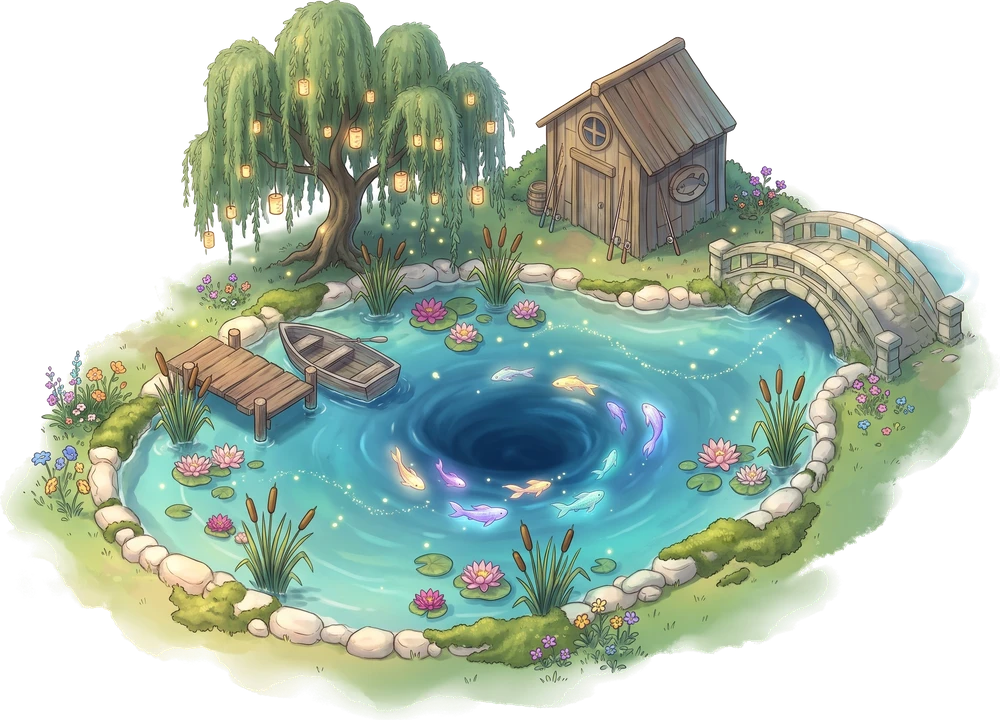
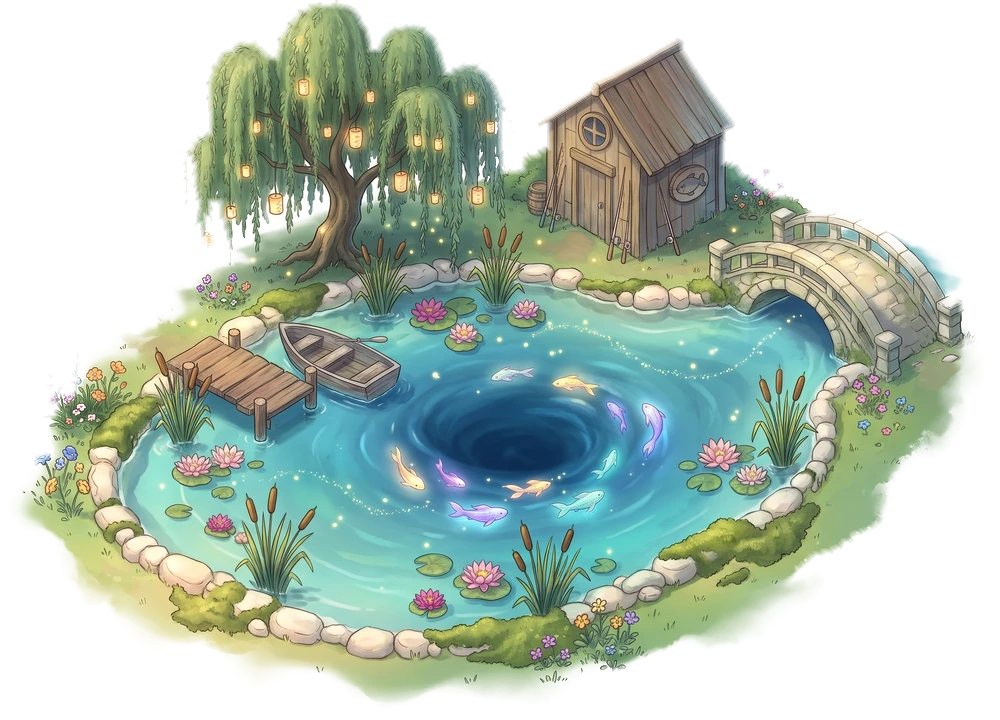
Build 561: the pond where she put it, lit at night, no pale rim (Maria: «Да» to the three fixes after reviewing her editor layout): the flagstone path from the reception's side door is drawn each frame down to the pier of the scene wherever the editor placed it (no fixed strip on the old spot); at n

diff --git a/js/game.js b/js/game.js
@@ -1,17 +1,17 @@
 // Magic school idle tycoon — v0.3: isometric campus with walking creatures.
 import './clock.js?v=470';   // build audit 2026-11-24: trusted clock (server time), must stay the first import
-import './edit_guard.js?v=560';   // room editor (?edit only): in-memory storage, no cloud
+import './edit_guard.js?v=561';   // room editor (?edit only): in-memory storage, no cloud
 import {
   OFFLINE_CAP_SEC, MAX_DESKS, MAX_ITEM_LEVEL, MAX_TEACHER_LEVEL, MAX_TIME_LEVEL,
   CLASSES, SPECIES, NAMES, MISSIONS, WORLDS, WORLD, META,
-} from './data.js?v=560';
-import { EMOJI_RE, emojiImage, preloadEmoji, watchEmoji, emojiHtml } from './emoji.js?v=560';
-import { initMinigame } from './minigame.js?v=560';
-import { initChests } from './chests.js?v=560';
-import { initValley } from './valley.js?v=560';
-import { log as glog, tail as gtail, entries as gentries, lineOf as gline, dump as gdump } from './gamelog.js?v=560';
-import { initLore } from './lore.js?v=560';
-import { initAvatar } from './avatar.js?v=560';
+} from './data.js?v=561';
+import { EMOJI_RE, emojiImage, preloadEmoji, watchEmoji, emojiHtml } from './emoji.js?v=561';
+import { initMinigame } from './minigame.js?v=561';
+import { initChests } from './chests.js?v=561';
+import { initValley } from './valley.js?v=561';
+import { log as glog, tail as gtail, entries as gentries, lineOf as gline, dump as gdump } from './gamelog.js?v=561';
+import { initLore } from './lore.js?v=561';
+import { initAvatar } from './avatar.js?v=561';
 // mini-game «Зельеварка» (match-3, js/minigame.js): a pill on the main screen, its own overlay; the school keeps living under it
 const MG = initMinigame({ state: () => S, earn: (n) => bonus(n), rate: () => rateNow(), save: () => save(), stones: () => stones(), spendStones: (n) => stonesAdd(-n), toast: (t) => toast(t), fmt: (n) => fmt(n), emojiHtml, emojiImage,
   audioOut: () => { if (!sfxOn() || document.hidden) return null; const c = audio(); return c && c.state === 'running' ? { c, out: AOUT } : null; },
@@ -38,7 +38,7 @@ const LORE = initLore({ state: () => S, save: () => save(), emojiHtml, on: () =>
 const SAVE_KEY = WORLD === 1 ? 'magicschool.save.v2' : 'magicschool.save.v2.w' + WORLD;   // every world keeps its own save
 const saveKeyOf = (w) => (w === 1 ? 'magicschool.save.v2' : 'magicschool.save.v2.w' + w);
 const VERSION = '0.9';
-const BUILD = 560;   // keep equal to the ?v= number in index.html
+const BUILD = 561;   // keep equal to the ?v= number in index.html
 const $ = (s, r = document) => r.querySelector(s);
 const rnd = (a) => a[Math.floor(Math.random() * a.length)];
 
@@ -722,7 +722,6 @@ function pondLayout() {
   POND = null; if (WORLD !== 1 || !window.__EDIT || !SLOTS.REC || !SLOTS.DIR) return;   // editor only until her OK (Maria: «В редактор ставь мне»)
   const r = SLOTS.REC, x0 = r.x1, x1 = SLOTS.DIR.x0, y0 = r.y0, y1 = r.y1; if (x1 - x0 < 9) return;
   POND = { x0, x1, y0, y1, cx: (x0 + x1) / 2 + 0.7, cy: (y0 + y1) / 2 + 0.3, rx: (x1 - x0) / 2 - 2.2, ry: (y1 - y0) / 2 - 1.8 };
-  const py = Math.floor(POND.cy); PATHS.push({ x0, y0, x1: x0 + 2, y1: py + 2, paved: 1 });   // from the reception's side door down to the shore by the pier
 }
 const pondBox = () => ({ x0: POND.x0 - 5, y0: POND.y0 - 3, x1: POND.x1 + 3, y1: POND.y1 + 7 });   // where the editor lets her move the pond's things (wider than the plot)
 function pondW() {   // the water where the editor put the scene: the same move / scale / flip as layAdd draws it with
@@ -733,7 +732,7 @@ function pondW() {   // the water where the editor put the scene: the same move 
 const pondD = (x, y, m = 0) => { if (!POND) return 9; const w = pondW(); return Math.pow((x - w.cx) / (w.rx + m), 2) + Math.pow((y - w.cy) / (w.ry + m), 2); };   // < 1 inside the pond grown by m tiles
 function pondRing(m = 0, n = 56) { const o = []; for (let k = 0; k < n; k++) { const an = k / n * Math.PI * 2, w = 1 + 0.05 * Math.sin(an * 3 + 2) + 0.03 * Math.sin(an * 5); o.push(P(POND.cx + Math.cos(an) * (POND.rx + m) * w, POND.cy + Math.sin(an) * (POND.ry + m) * w)); } return o; }
 function openFish() { MG.open(); const b = document.querySelector('#mg [data-mgpick="fish"]'); if (b) b.click(); }   // straight into «Рыбалка»
-const POND_IMG = new Image(); if (WORLD === 1) { POND_IMG.onload = () => { staticKey = ''; }; POND_IMG.src = 'assets/parts/outdoor/pond.webp?v=2'; }   // the painted pond (one picture)
+const POND_IMG = new Image(); if (WORLD === 1) { POND_IMG.onload = () => { staticKey = ''; }; POND_IMG.src = 'assets/parts/outdoor/pond.webp?v=3'; }   // the painted pond (one picture)
 const FISH_IMG = {}; if (WORLD === 1) for (const k of ['bobber', 'f_gold']) { const im = new Image(); im.src = `assets/fish/${k}.webp?v=1`; FISH_IMG[k] = im; }
 function drawPondFx() {   // on the water, before the sorted things: ripples, the bobber of a waiting try, the golden fish
   const now = performance.now(), t = now / 1000, P0 = POND;
@@ -754,6 +753,29 @@ function drawPondFish() {   // the golden fish jumps over everything on the wate
       ctx.save(); ctx.strokeStyle = 'rgba(255,255,255,0.7)'; ctx.lineWidth = 1.4; for (const q of [0, 1]) { const uu = q ? Math.max(0, u - 0.85) / 0.15 : Math.min(1, u / 0.15); if (uu > 0 && uu < 1) { const sx = m.x + (pondFish.fl ? -1 : 1) * (q ? 17 : -17); ctx.globalAlpha = 1 - uu; ctx.beginPath(); ctx.ellipse(sx, m.y, 5 + uu * 12, 2 + uu * 5, 0, 0, Math.PI * 2); ctx.stroke(); } } ctx.restore();
       ctx.save(); ctx.translate(fx, fy); ctx.rotate((pondFish.fl ? 1 : -1) * (0.9 - 1.8 * u)); ctx.scale(pondFish.fl ? -1 : 1, 1); ctx.drawImage(sized(f, h * scale * dpr), -w / 2, -h / 2, w, h); ctx.restore();
       if (u > 0.1 && u < 0.92) pondFishRect = { x0: fx - w / 2 - 12, y0: fy - h / 2 - 12, x1: fx + w / 2 + 12, y1: fy + h / 2 + 12, t: now }; } }
+}
+function pondPt(u, v) {   // a point of the scene picture (u, v = shares of its width / height) in world px, where the editor put the scene
+  const W = pondW(), o = (((RLAY.rooms.POND || {}).items) || {})['pond_scene#1'] || {}, f = o.flip ? -1 : 1, w = 2 * Math.hypot(W.rx, W.ry) * HW / 0.677, h = w * 0.72, m = P(W.cx, W.cy);
+  return { x: m.x + f * (u - 0.489) * w, y: m.y + (v - 0.629) * h, k: w / (2 * Math.hypot(POND.rx, POND.ry) * HW / 0.677) };
+}
+const pondTile = (q) => { const a = (q.x - OX) / HW, b = (q.y - OY) / HH; return { x: (a + b) / 2, y: (b - a) / 2 }; };
+function drawPondPath() {   // flagstones from the reception's side door (its top-right corner) down and along to the pier's land end
+  const pt = isoPat(ctx, 'path', 3); if (!pt) return; const x0 = POND.x0, y0 = POND.y0, e = pondTile(pondPt(0.2, 0.43)), ey = Math.max(y0 + 1, Math.round(e.y)), ex = Math.round(e.x);
+  const R = [[x0, y0, x0 + 2, ey + 1]]; if (ex > x0 + 2) R.push([x0 + 2, ey - 1, ex + 1, ey + 1]); else if (ex < x0) R.push([ex, ey - 1, x0, ey + 1]); R.push([Math.min(ex, x0), ey, Math.max(ex + 1, x0 + 2), ey + 2]);   /* the last step reaches the pier */
+  ctx.save(); ctx.fillStyle = pt; for (const [a, b, c, d] of R) { poly(ctx, [P(a, b), P(c, b), P(c, d), P(a, d)]); ctx.fill(); } ctx.restore();
+}
+const POND_LAMPS = [[0.297, 0.056], [0.304, 0.114], [0.369, 0.131], [0.47, 0.138], [0.256, 0.177], [0.492, 0.176], [0.327, 0.18], [0.354, 0.191], [0.417, 0.194], [0.437, 0.197], [0.245, 0.239], [0.4, 0.247], [0.476, 0.274], [0.434, 0.276], [0.273, 0.278], [0.231, 0.294], [0.322, 0.319], [0.209, 0.329]];   // the willow's paper lanterns (measured on pond.webp)
+const POND_FISH = [[0.51, 0.52, '255,205,110'], [0.575, 0.535, '255,205,110'], [0.625, 0.42, '200,160,255'], [0.655, 0.43, '170,220,255'], [0.405, 0.665, '255,205,110'], [0.445, 0.68, '200,160,255'], [0.525, 0.69, '255,190,120'], [0.47, 0.71, '170,210,255'], [0.585, 0.7, '170,230,255']];
+function drawPondNight() {   // after the night tint: lanterns, the hut's window, the glowing fish, the water and fireflies shine
+  if (!POND || !POND_IMG.naturalWidth) return; const D = dayTint(), tt = D.sun.map((v, i) => (v + D.shade[i]) / 2), L = Math.min(1, Math.max(0, 1 - (tt[0] + tt[1] + tt[2]) / 765) * 2.2); if (L < 0.05) return;
+  const T = performance.now() / 1000, c0 = pondPt(0.489, 0.629), k = c0.k; if (!onScreen(c0.x, c0.y, 400, 400)) return;
+  ctx.save(); ctx.globalCompositeOperation = 'lighter';
+  { const r = 2 * Math.hypot(POND.rx, POND.ry) * HW * 0.5 * k; ctx.globalAlpha = 0.28 * L; ctx.drawImage(glowSprite('90,190,255'), c0.x - r, c0.y - r * 0.45, r * 2, r * 0.9); }   // the water's own light
+  POND_FISH.forEach(([u, v, col], j) => { const q = pondPt(u, v), r = 11 * k; ctx.globalAlpha = L * (0.55 + 0.25 * Math.sin(T * 1.7 + j * 1.3)); ctx.drawImage(glowSprite(col), q.x - r, q.y - r * 0.6, r * 2, r * 1.2); });
+  POND_LAMPS.forEach(([u, v], j) => { const q = pondPt(u, v), f = 0.8 + 0.2 * Math.sin(T * 4.1 + j * 2.3), r = 7 * k; ctx.globalAlpha = 0.9 * L * f; ctx.drawImage(glowSprite('255,190,100'), q.x - r, q.y - r, r * 2, r * 2); ctx.globalAlpha = 0.6 * L * f; ctx.drawImage(glowSprite('255,235,180'), q.x - r * 0.45, q.y - r * 0.45, r * 0.9, r * 0.9); });
+  { const q = pondPt(0.605, 0.185), r = 9 * k; ctx.globalAlpha = 0.85 * L; ctx.drawImage(glowSprite('255,200,110'), q.x - r, q.y - r, r * 2, r * 2); }   // the hut's round window
+  for (let j = 0; j < 12; j++) { const u = 0.3 + 0.45 * ((j * 0.37) % 1) + 0.04 * Math.sin(T * 0.6 + j), v = 0.25 + 0.35 * ((j * 0.61) % 1) + 0.03 * Math.sin(T * 0.8 + j * 2), q = pondPt(u, v), bl = Math.max(0, Math.sin(T * 1.3 + j * 1.9)); if (bl < 0.1) continue; const r = 3.5 * k; ctx.globalAlpha = L * bl; ctx.drawImage(glowSprite('220,255,140'), q.x - r, q.y - r, r * 2, r * 2); }   // fireflies
+  ctx.restore();
 }
 function drawPondPic() {   // the painted scene (SYNTX, art/pond/pond_v2.jpg): its water spans 67.7% of the width, water centre at (48.9%, 62.9%); then the water fx on it
   const im = POND_IMG; if (im.naturalWidth) { const m0 = P(POND.cx, POND.cy), w = 2 * Math.hypot(POND.rx, POND.ry) * HW / 0.677, h = w * im.naturalHeight / im.naturalWidth; ctx.drawImage(sized(im, h * scale * dpr), m0.x - w * 0.489, m0.y - h * 0.629, w, h); }
@@ -5314,6 +5336,7 @@ function render() {
   for (const id of Object.keys(SLOTS)) { const s = SLOTS[id]; if (!slotVisible(s)) continue; list.push({ k1: (s.x0 + s.x1 + s.y0 + s.y1) / 2, k2: -1e9, draw: cachedRoom(id) ? () => drawThemedRoom(id) : () => drawSlot(ctx, id) }); }
   list.push({ k1: Math.floor(GATE_TILE.x) + 1 + GATE_TILE.y - 1, k2: 0, draw: () => drawGate(ctx) });
   if (WORLD === 1 && POND) { const q = POND, la = layAdd('POND', pondBox(), add);   // the fishing pond: the editor's room «🎣 Пруд», every piece movable
+    list.push({ k1: -1e9, k2: 0, draw: drawPondPath });   // the path lies on the ground under everything
     la(q.cx, q.cy, drawPondPic, -(q.rx * 0.5 + q.ry * 0.7), 'pond_scene');
     for (const [n, dx, dy, sc] of [['bench_b', -1.6, q.ry + 1.3, 1.05], ['lantern_gold', q.x0 + 2.4 - q.cx, q.y0 + 1.6 - q.cy, 0.8], ['lantern_gold', -q.rx - 0.2, Math.floor(q.cy) + 2.4 - q.cy, 0.8]]) la(q.cx + dx, q.cy + dy, () => drawOut({ n, x: q.cx + dx, y: q.cy + dy, s: sc }), 0, n);
     layExtra('POND', pondBox(), add); }
@@ -5488,6 +5511,7 @@ function render() {
   drawDewFx();   // secret «Роса» (lore stage 4): dawn dew in the graduates' garden
   drawPukh();   // secret «Совёнок Пух»: the owlet flies over now and then
   drawStarfall();   /* secret «Звездопад» */
+  if (WORLD === 1 && POND) drawPondNight();   // the pond's lanterns and fish at night (build 561)
   drawMoonFx();   // the Moon Tree glow and fruits stay bright at night   // day and night (signs stay bright: drawn after)
   signRects = [];
   for (const id of Object.keys(SLOTS)) drawSign(ctx, id);
@@ -7816,5 +7840,5 @@ if (EDIT) {   // room editor: js/editor.js gets the game's room tools
     get zoom() { return zoom; }, get scale() { return scale; }, get dpr() { return dpr; }, scroller, canvas,
     get layout() { return RLAY; }, setLayout, pond: () => POND && pondBox(), entries: () => LAY_ENT.slice(), walls: (th) => (LAY_WALLS[th] || []).slice(), layPos, layIm, texPart, thumb: (n, th) => { if (n === 'conc') return th === 'DORM2' ? LYALYA.src : (sprites.staff_concierge || {}).src || ''; if (n === 'dm_nest') n = 'dm_nest_canopy'; const im = n && (ITEM_IMS[n] || parts[th + '/' + n] || parts[th + '/iso_' + n] || LAY_IMS[n]); return im ? im.src : ''; },
     zoomAt: (z, x, y) => { setZoom(z, 0, 0, 0, 0); focusTile(x, y, false); } };
-  import('./editor.js?v=560').then((m) => m.initEditor(window.__EDIT_API)).catch((e) => { console.error(e); alert('Редактор не загрузился: ' + e.message); });
+  import('./editor.js?v=561').then((m) => m.initEditor(window.__EDIT_API)).catch((e) => { console.error(e); alert('Редактор не загрузился: ' + e.message); });
 }

diff --git a/index.html b/index.html
@@ -12,7 +12,7 @@
 <link rel="manifest" href="manifest.webmanifest">
 <link rel="apple-touch-icon" href="icons/icon-180.png?v=2">
 <link rel="icon" href="icons/icon-192.png?v=2">
-<link rel="stylesheet" href="style.css?v=560">
+<link rel="stylesheet" href="style.css?v=561">
 <script>/* iOS home-screen app: innerHeight / 100% / 100dvh are short by the status bar, a strip stayed at the bottom (her screenshots, builds 200-203); use the real screen height */
 (function(){function fit(){if(!(navigator.standalone||matchMedia('(display-mode: standalone)').matches))return;var h=Math.max(window.innerHeight,(Math.abs(window.orientation||0)===90?screen.width:screen.height));var r=document.documentElement;r.style.height=h+'px';if(document.body){document.body.style.height=h+'px';document.body.style.bottom='auto';}}fit();addEventListener('DOMContentLoaded',fit);addEventListener('resize',fit);addEventListener('orientationchange',function(){setTimeout(fit,300);});})();</script>
 </head>
@@ -72,6 +72,6 @@ setTimeout(function(){ if (window.__booted) return; var d=document.createElement
   d.querySelector('button').onclick=function(){ location.reload(); }; document.body.appendChild(d); }, 12000);
 if(!CanvasRenderingContext2D.prototype.roundRect){CanvasRenderingContext2D.prototype.roundRect=function(x,y,w,h){this.rect(x,y,w,h);};}
 </script>
-<script type="module" src="js/game.js?v=560"></script>
+<script type="module" src="js/game.js?v=561"></script>
 </body>
 </html>

diff --git a/js/emoji.js b/js/emoji.js
@@ -1,6 +1,6 @@
 // One emoji look on every device: emoji characters are replaced by bundled Twemoji pictures
 // (CC-BY 4.0, https://github.com/jdecked/twemoji), both in the page (DOM) and on the canvas.
-import { EMOJI_FILES } from './emoji-set.js?v=560';
+import { EMOJI_FILES } from './emoji-set.js?v=561';
 
 export const EMOJI_RE = /\p{Extended_Pictographic}(?:|\p{Extended_Pictographic}?|[\u{1F3FB}-\u{1F3FF}])*/gu;
 
